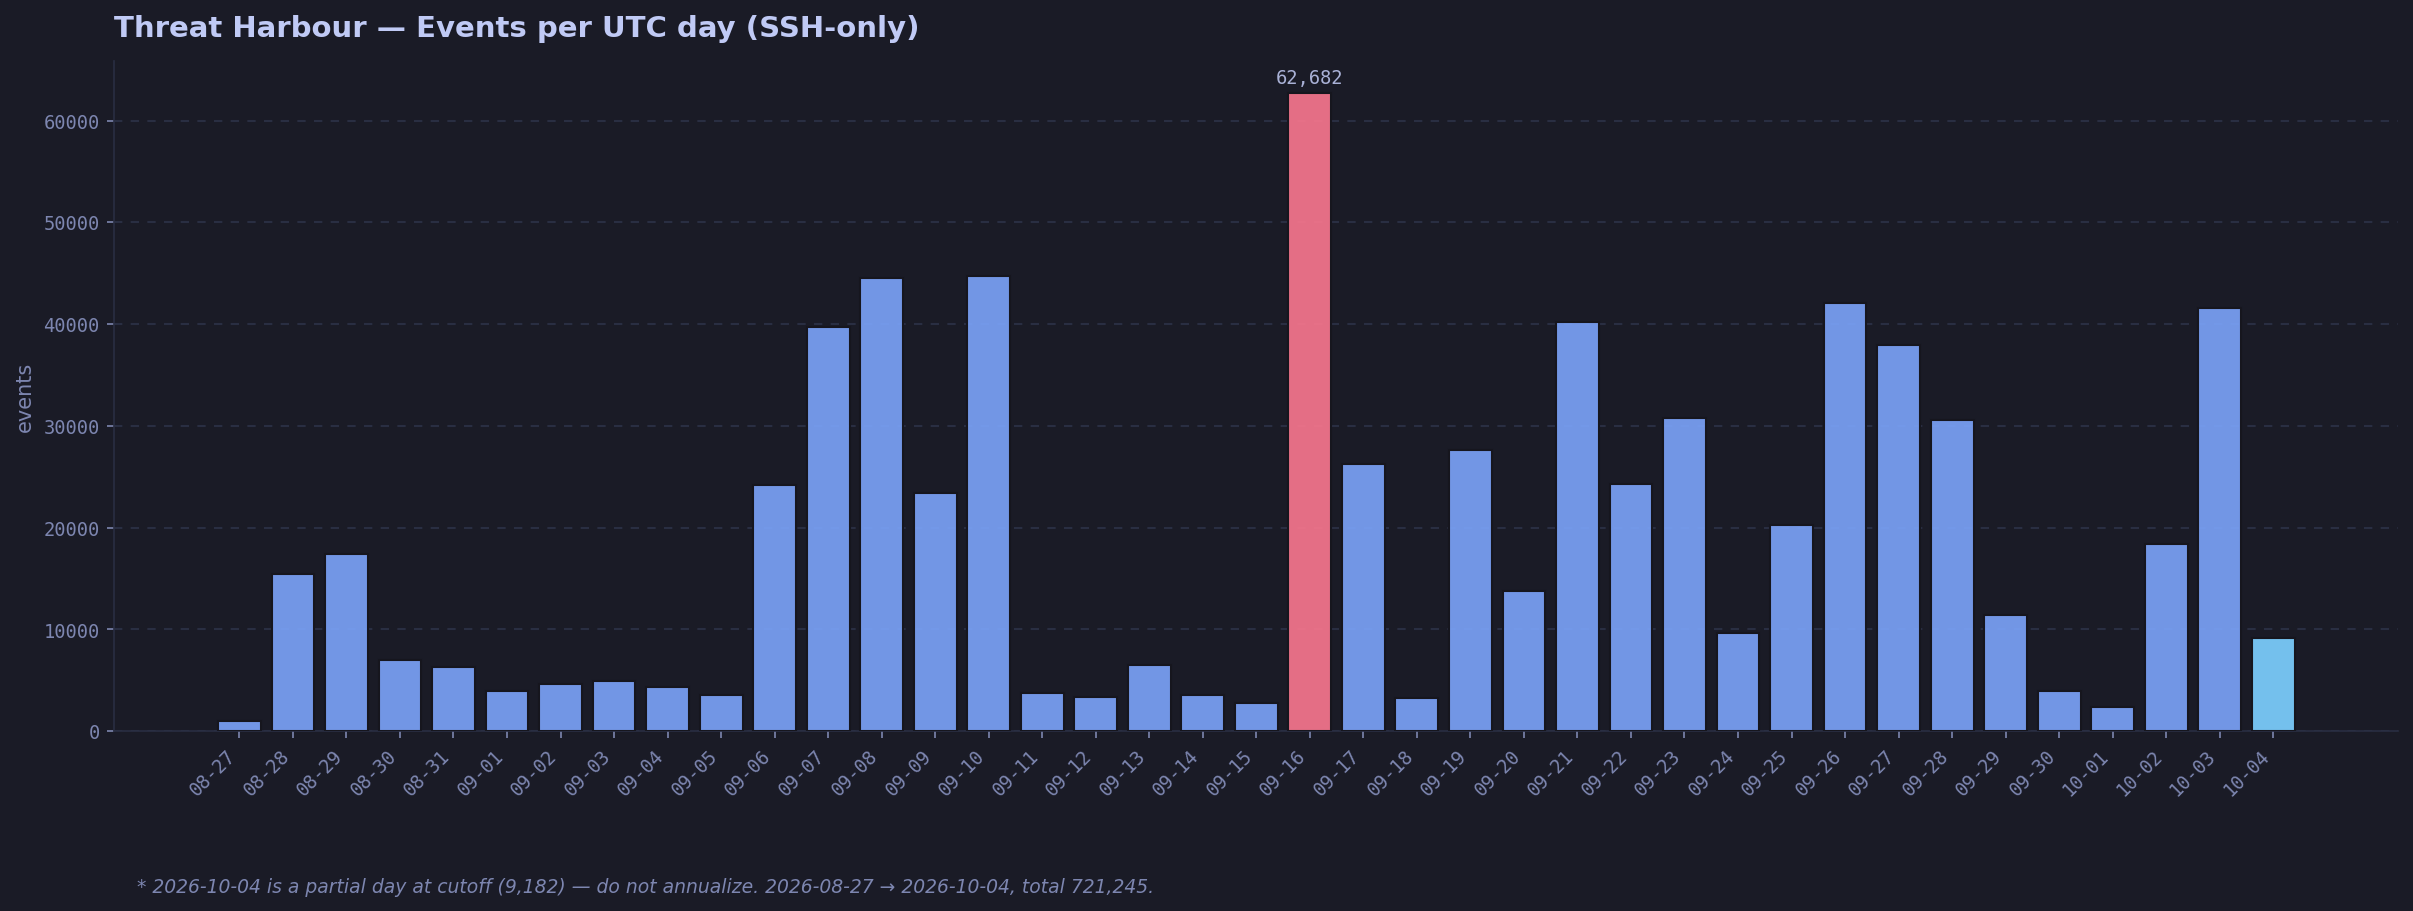
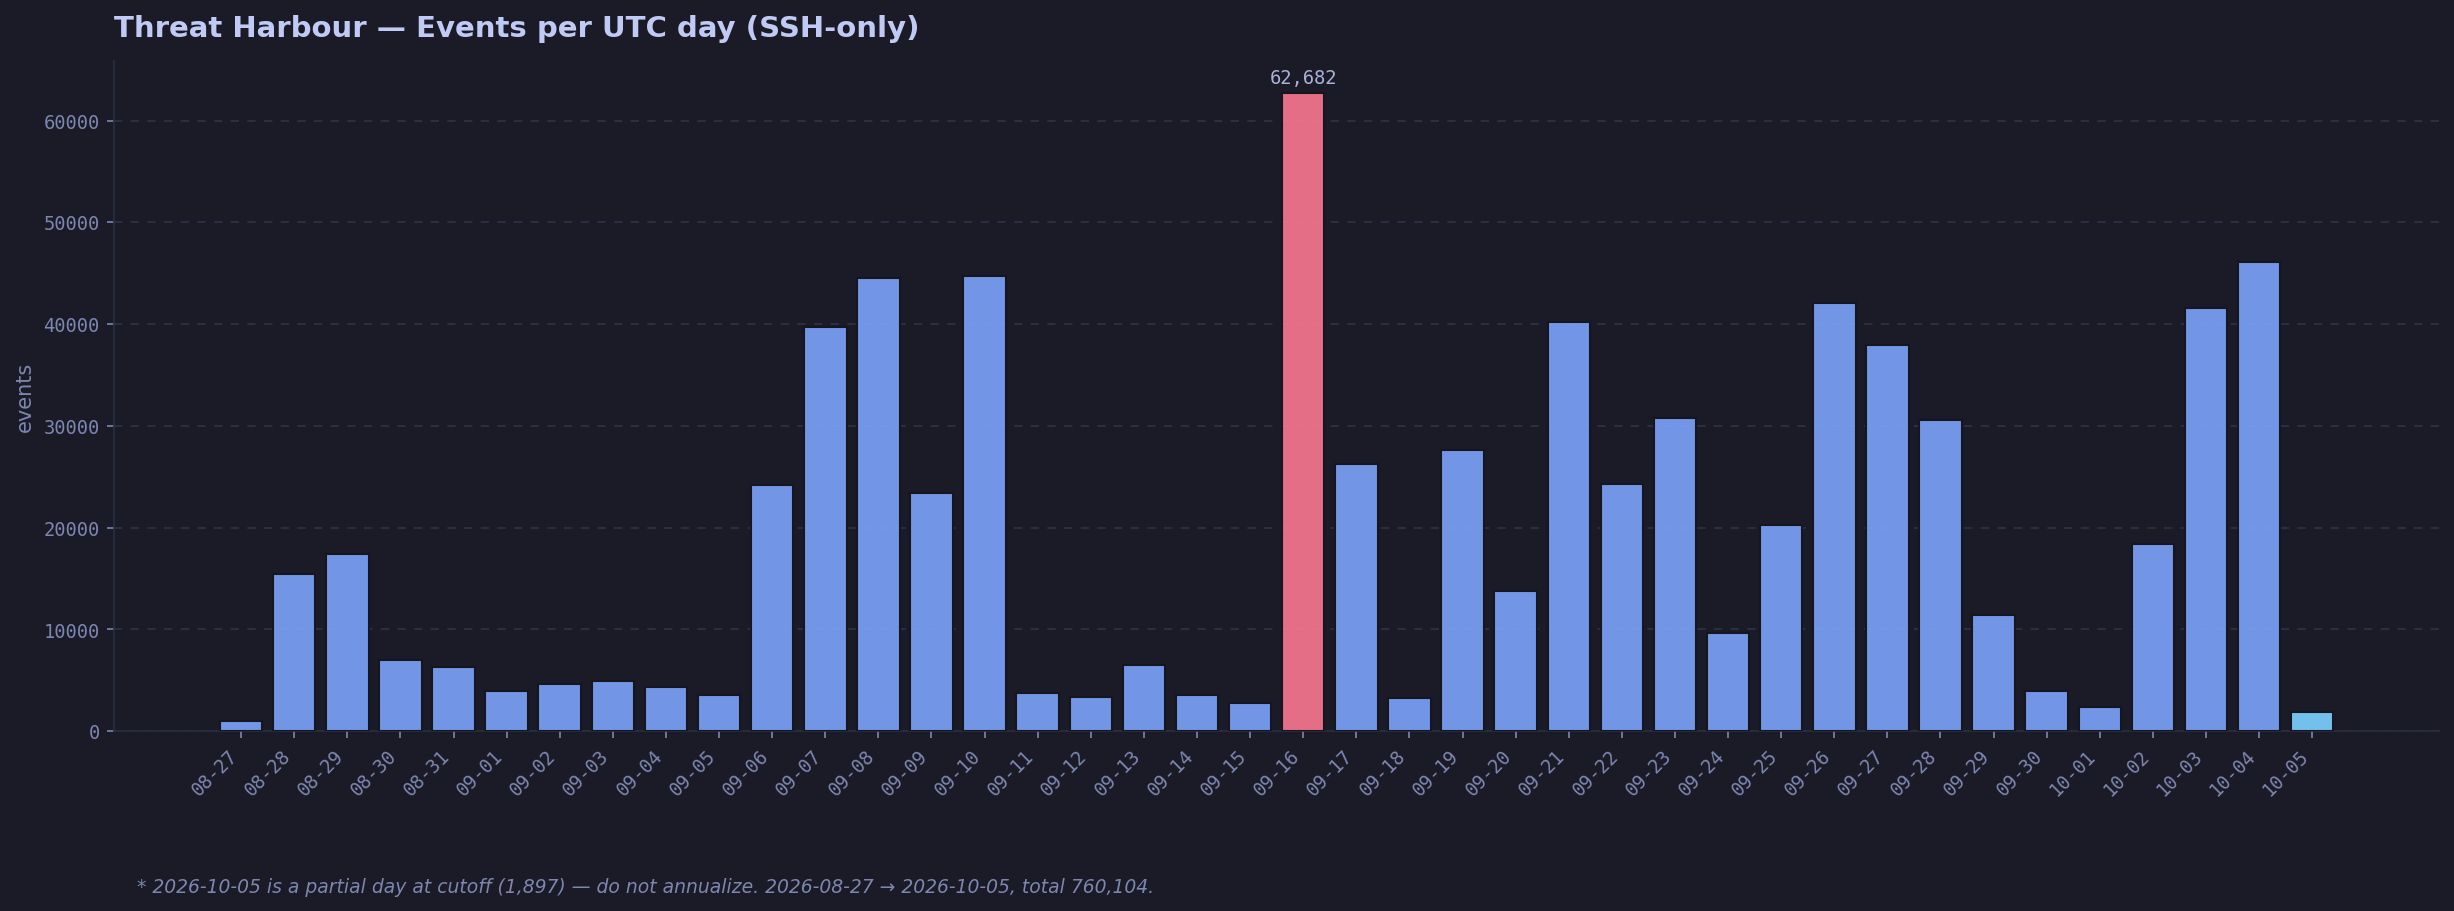
Daily metrics: 760,104 events (automated)

diff --git a/analysis/summary.md b/analysis/summary.md
@@ -1,13 +1,13 @@
-# Analysis summary (rolling snapshot, cutoff 2026-10-04T04:46:05Z)
+# Analysis summary (rolling snapshot, cutoff 2026-10-05T04:34:05Z)
 
 Sensor is **still running** — this file regenerates every 24 hours.
 Observation: `2026-08-27` → `ongoing`. Numbers below are a snapshot at
-`2026-10-04T04:46:05Z` (721,245 events).
+`2026-10-05T04:34:05Z` (760,104 events).
 
 ## Source
 
 - Cowrie JSONL on sensor: `/home/jack/honeypot/var/log/cowrie/cowrie.json*`
-  (39 files, 6 malformed lines) — the same files Promtail ships to Loki
+  (40 files, 6 malformed lines) — the same files Promtail ships to Loki
   (`job="cowrie"`).
 - Parser: `scripts/parse_remote.py` (stdlib only, deployed fresh each run);
   renderer: `scripts/render.py`. Aggregates only. Raw logs stay on the
@@ -17,22 +17,21 @@ Observation: `2026-08-27` → `ongoing`. Numbers below are a snapshot at
 
 | Metric | Value |
 |---|---|
-| Total events | 721,245 |
-| Unique source IPs | 4,800 |
-| Sessions (`cowrie.session.connect`) | 105,497 |
-| SSH events | 721,245 (100%) |
-| Fake successful logins (`cowrie.login.success`) | 82,471 |
-| Failed logins | 451 |
-| Command-input events | 77,723 (+492 `command.failed`) |
-| File-download events | 472 |
-| File-upload events | 90 |
-| Session duration median (n=105,278 matched close) | 2.4s; 83,553 < 10s; max ~18,022s |
+| Total events | 760,104 |
+| Unique source IPs | 4,923 |
+| Sessions (`cowrie.session.connect`) | 110,627 |
+| SSH events | 760,104 (100%) |
+| Fake successful logins (`cowrie.login.success`) | 87,226 |
+| Failed logins | 463 |
+| Command-input events | 82,084 (+558 `command.failed`) |
+| File-download events | 517 |
+| File-upload events | 93 |
+| Session duration median (n=110,408 matched close) | 2.4s; 88,317 < 10s; max ~18,022s |
 
 ## Events per UTC day
 
 | Day (UTC) | Events |
 |---|---|
-| `2026-09-05` | 3,592 |
 | `2026-09-06` | 24,144 |
 | `2026-09-07` | 39,684 |
 | `2026-09-08` | 44,543 |
@@ -61,10 +60,11 @@ Observation: `2026-08-27` → `ongoing`. Numbers below are a snapshot at
 | `2026-10-01` | 2,353 |
 | `2026-10-02` | 18,424 |
 | `2026-10-03` | 41,555 |
-| `2026-10-04` | 9,182 |
+| `2026-10-04` | 46,144 |
+| `2026-10-05` | 1,897 |
 
 <details>
-<summary>Older days (9 days, click to expand)</summary>
+<summary>Older days (10 days, click to expand)</summary>
 
 | Day (UTC) | Events |
 |---|---|
@@ -77,67 +77,68 @@ Observation: `2026-08-27` → `ongoing`. Numbers below are a snapshot at
 | `2026-09-02` | 4,684 |
 | `2026-09-03` | 4,970 |
 | `2026-09-04` | 4,309 |
+| `2026-09-05` | 3,592 |
 
 </details>
 
-`2026-10-04` is partial at cutoff — do not annualize.
+`2026-10-05` is partial at cutoff — do not annualize.
 
 ### Top usernames
 
 | # | Value | Tries |
 |---|---|---|
-| 1 | `root` | 33,703 |
-| 2 | `admin` | 2,888 |
-| 3 | `ubuntu` | 2,029 |
-| 4 | `user` | 1,865 |
-| 5 | `deploy` | 1,133 |
-| 6 | `test` | 913 |
-| 7 | `user1` | 572 |
-| 8 | `claude` | 521 |
-| 9 | `debian` | 466 |
-| 10 | `postgres` | 417 |
+| 1 | `root` | 34,259 |
+| 2 | `admin` | 2,971 |
+| 3 | `ubuntu` | 2,032 |
+| 4 | `user` | 1,895 |
+| 5 | `deploy` | 1,138 |
+| 6 | `test` | 918 |
+| 7 | `user1` | 574 |
+| 8 | `claude` | 524 |
+| 9 | `debian` | 468 |
+| 10 | `postgres` | 420 |
 
 ### Top passwords
 
 | # | Value | Tries |
 |---|---|---|
-| 1 | `123456` | 4,166 |
-| 2 | `1234` | 2,187 |
-| 3 | `123` | 2,009 |
-| 4 | `admin` | 1,168 |
-| 5 | `12345678` | 1,112 |
-| 6 | `1` | 1,005 |
-| 7 | `password` | 878 |
-| 8 | `root` | 830 |
-| 9 | `12345` | 810 |
-| 10 | `123456789` | 651 |
+| 1 | `123456` | 4,176 |
+| 2 | `1234` | 2,221 |
+| 3 | `123` | 2,018 |
+| 4 | `admin` | 1,203 |
+| 5 | `12345678` | 1,121 |
+| 6 | `1` | 1,011 |
+| 7 | `password` | 886 |
+| 8 | `root` | 836 |
+| 9 | `12345` | 817 |
+| 10 | `123456789` | 660 |
 
 ### Top commands
 
 | # | Value | Tries |
 |---|---|---|
-| 1 | `uname -s -v -n -r -m` | 64,924 |
-| 2 | `hostname` | 1,668 |
-| 3 | `export PATH=/usr/local/sbin:/usr/local/bin:/usr/sbin:/usr/bi…` | 1,511 |
-| 4 | `/bin/./uname -s -v -n -r -m` | 1,364 |
-| 5 | `uname -a` | 924 |
-| 6 | `whoami` | 738 |
+| 1 | `uname -s -v -n -r -m` | 68,924 |
+| 2 | `hostname` | 1,680 |
+| 3 | `export PATH=/usr/local/sbin:/usr/local/bin:/usr/sbin:/usr/bi…` | 1,627 |
+| 4 | `/bin/./uname -s -v -n -r -m` | 1,366 |
+| 5 | `uname -a` | 935 |
+| 6 | `whoami` | 743 |
 | 7 | `export PATH=/usr/local/sbin:/usr/local/bin:/usr/sbin:/usr/bi…` | 722 |
-| 8 | `pwd` | 591 |
+| 8 | `pwd` | 598 |
 | 9 | `ls -la /` | 568 |
-| 10 | `ps aux \| head -10` | 522 |
+| 10 | `ps aux \| head -10` | 525 |
 
 ### Command categories
 
 | Category | Events |
 |---|---|
-| `destructive` | 2,700 |
-| `discovery` | 73,480 |
-| `downloader` | 34 |
+| `destructive` | 2,853 |
+| `discovery` | 77,552 |
+| `downloader` | 35 |
 | `empty` | 7 |
-| `other` | 862 |
-| `persistence-privilege` | 29 |
-| `shell-exec` | 611 |
+| `other` | 899 |
+| `persistence-privilege` | 30 |
+| `shell-exec` | 708 |
 
 ## Limitations that shape these numbers
 

diff --git a/README.md b/README.md
@@ -19,28 +19,28 @@ Use it to:
 No attribution, no hype — just counts of what hit the sensor, refreshed daily.
 
 <!-- METRICS:START -->
-## Collected Data — refreshed every 24 hours (last run `2026-10-04 UTC`)
+## Collected Data — refreshed every 24 hours (last run `2026-10-05 UTC`)
 
 `2026-08-27` → `ongoing` · Cowrie `3.0.13` · SSH-only · `ap-hyderabad-1`.
 
 | Total events | Unique IPs | Sessions | Fake logins | Commands | Downloads (+uploads) |
 |---|---|---|---|---|---|
-| `721,245` | `4,800` | `105,497` | `82,471` / 451 failed | `77,723` (+492 failed) | `472` (+90 uploads) |
+| `760,104` | `4,923` | `110,627` | `87,226` / 463 failed | `82,084` (+558 failed) | `517` (+93 uploads) |
 
 | # | Top username | Top password | Top command |
 |---|---|---|---|
-| 1 | `root` (33,703) | `123456` (4,166) | `uname -s -v -n -r -m` (64,924) |
-| 2 | `admin` (2,888) | `1234` (2,187) | `hostname` (1,668) |
-| 3 | `ubuntu` (2,029) | `123` (2,009) | `export PATH=/usr/local/sbin:/usr/local/b…` (1,511) |
-| 4 | `user` (1,865) | `admin` (1,168) | `/bin/./uname -s -v -n -r -m` (1,364) |
-| 5 | `deploy` (1,133) | `12345678` (1,112) | `uname -a` (924) |
+| 1 | `root` (34,259) | `123456` (4,176) | `uname -s -v -n -r -m` (68,924) |
+| 2 | `admin` (2,971) | `1234` (2,221) | `hostname` (1,680) |
+| 3 | `ubuntu` (2,032) | `123` (2,018) | `export PATH=/usr/local/sbin:/usr/local/b…` (1,627) |
+| 4 | `user` (1,895) | `admin` (1,203) | `/bin/./uname -s -v -n -r -m` (1,366) |
+| 5 | `deploy` (1,138) | `12345678` (1,121) | `uname -a` (935) |
 
 Key findings:
 
-- Median session `2.4s` (79% under 10s) — mostly automated scanning, not humans.
-- `95%` of commands are discovery/fingerprinting (`uname`, `hostname`, `whoami`).
+- Median session `2.4s` (80% under 10s) — mostly automated scanning, not humans.
+- `94%` of commands are discovery/fingerprinting (`uname`, `hostname`, `whoami`).
 - Repeated persistence probes writing toward `authorized_keys` (hash `a8460f44……`, content withheld).
-- Busiest /16 by volume: `109.160.0.0/16` (465,860 events) — volume only, never attribution.
+- Busiest /16 by volume: `109.160.0.0/16` (497,895 events) — volume only, never attribution.
 
 ![Session funnel](diagrams/session-funnel.png)
 ![Activity timeline](diagrams/activity-timeline.png)

diff --git a/evidence/manifest.md b/evidence/manifest.md
@@ -1,12 +1,12 @@
-# Evidence manifest (rolling snapshot, cutoff 2026-10-04T04:46:05Z)
+# Evidence manifest (rolling snapshot, cutoff 2026-10-05T04:34:05Z)
 
 Raw Cowrie logs are **retained on the sensor only** and are not published.
 This manifest lets a reviewer re-derive `analysis/metrics.json`.
 
 ## Dataset
 
-- Host path: `/home/jack/honeypot/var/log/cowrie/cowrie.json*` (39 files)
-- Total lines: 721,245 (6 malformed)
+- Host path: `/home/jack/honeypot/var/log/cowrie/cowrie.json*` (40 files)
+- Total lines: 760,104 (6 malformed)
 - Cowrie: `3.0.13`
 - Collector: Promtail `2.9.4` → Loki `2.9.4` (`job="cowrie"`), Grafana `10.2.3`
 
@@ -14,7 +14,7 @@ This manifest lets a reviewer re-derive `analysis/metrics.json`.
 
 | File | Lines |
 |---|---|
-| `cowrie.json` | 9,182 |
+| `cowrie.json` | 1,897 |
 | `cowrie.json.2026-08-27` | 964 |
 | `cowrie.json.2026-08-28` | 15,483 |
 | `cowrie.json.2026-08-29` | 17,457 |
@@ -53,6 +53,7 @@ This manifest lets a reviewer re-derive `analysis/metrics.json`.
 | `cowrie.json.2026-10-01` | 2,354 |
 | `cowrie.json.2026-10-02` | 18,424 |
 | `cowrie.json.2026-10-03` | 41,555 |
+| `cowrie.json.2026-10-04` | 46,144 |
 
 ## What is / is not in this repo
 
